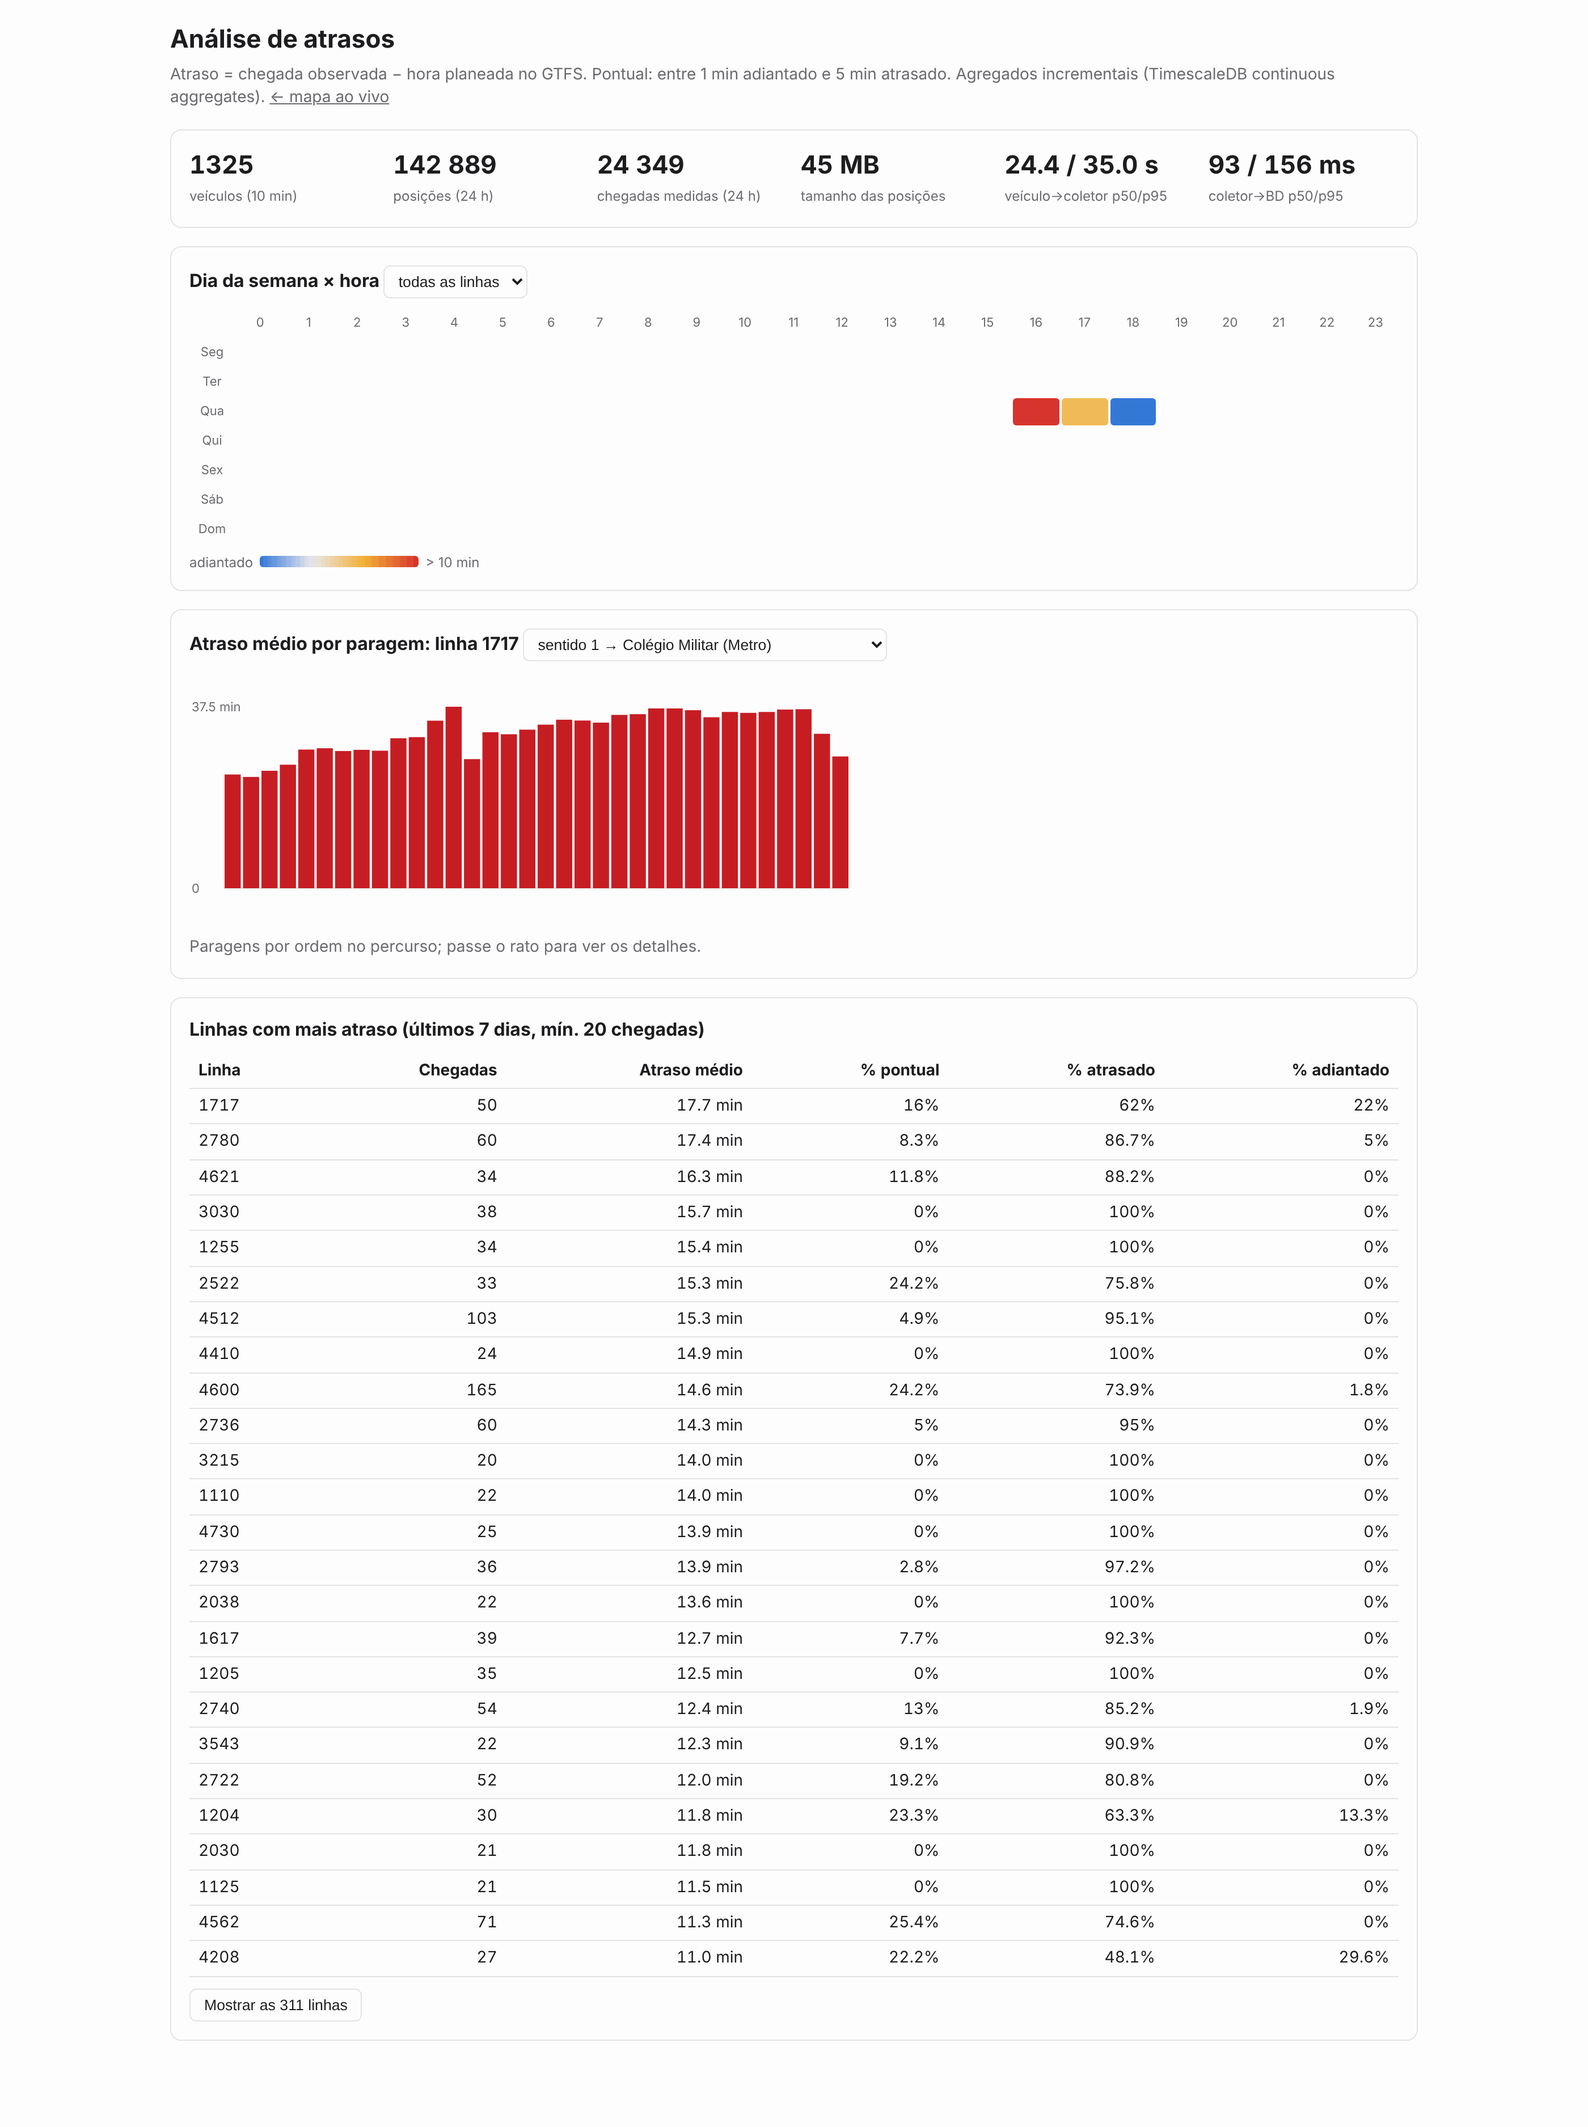
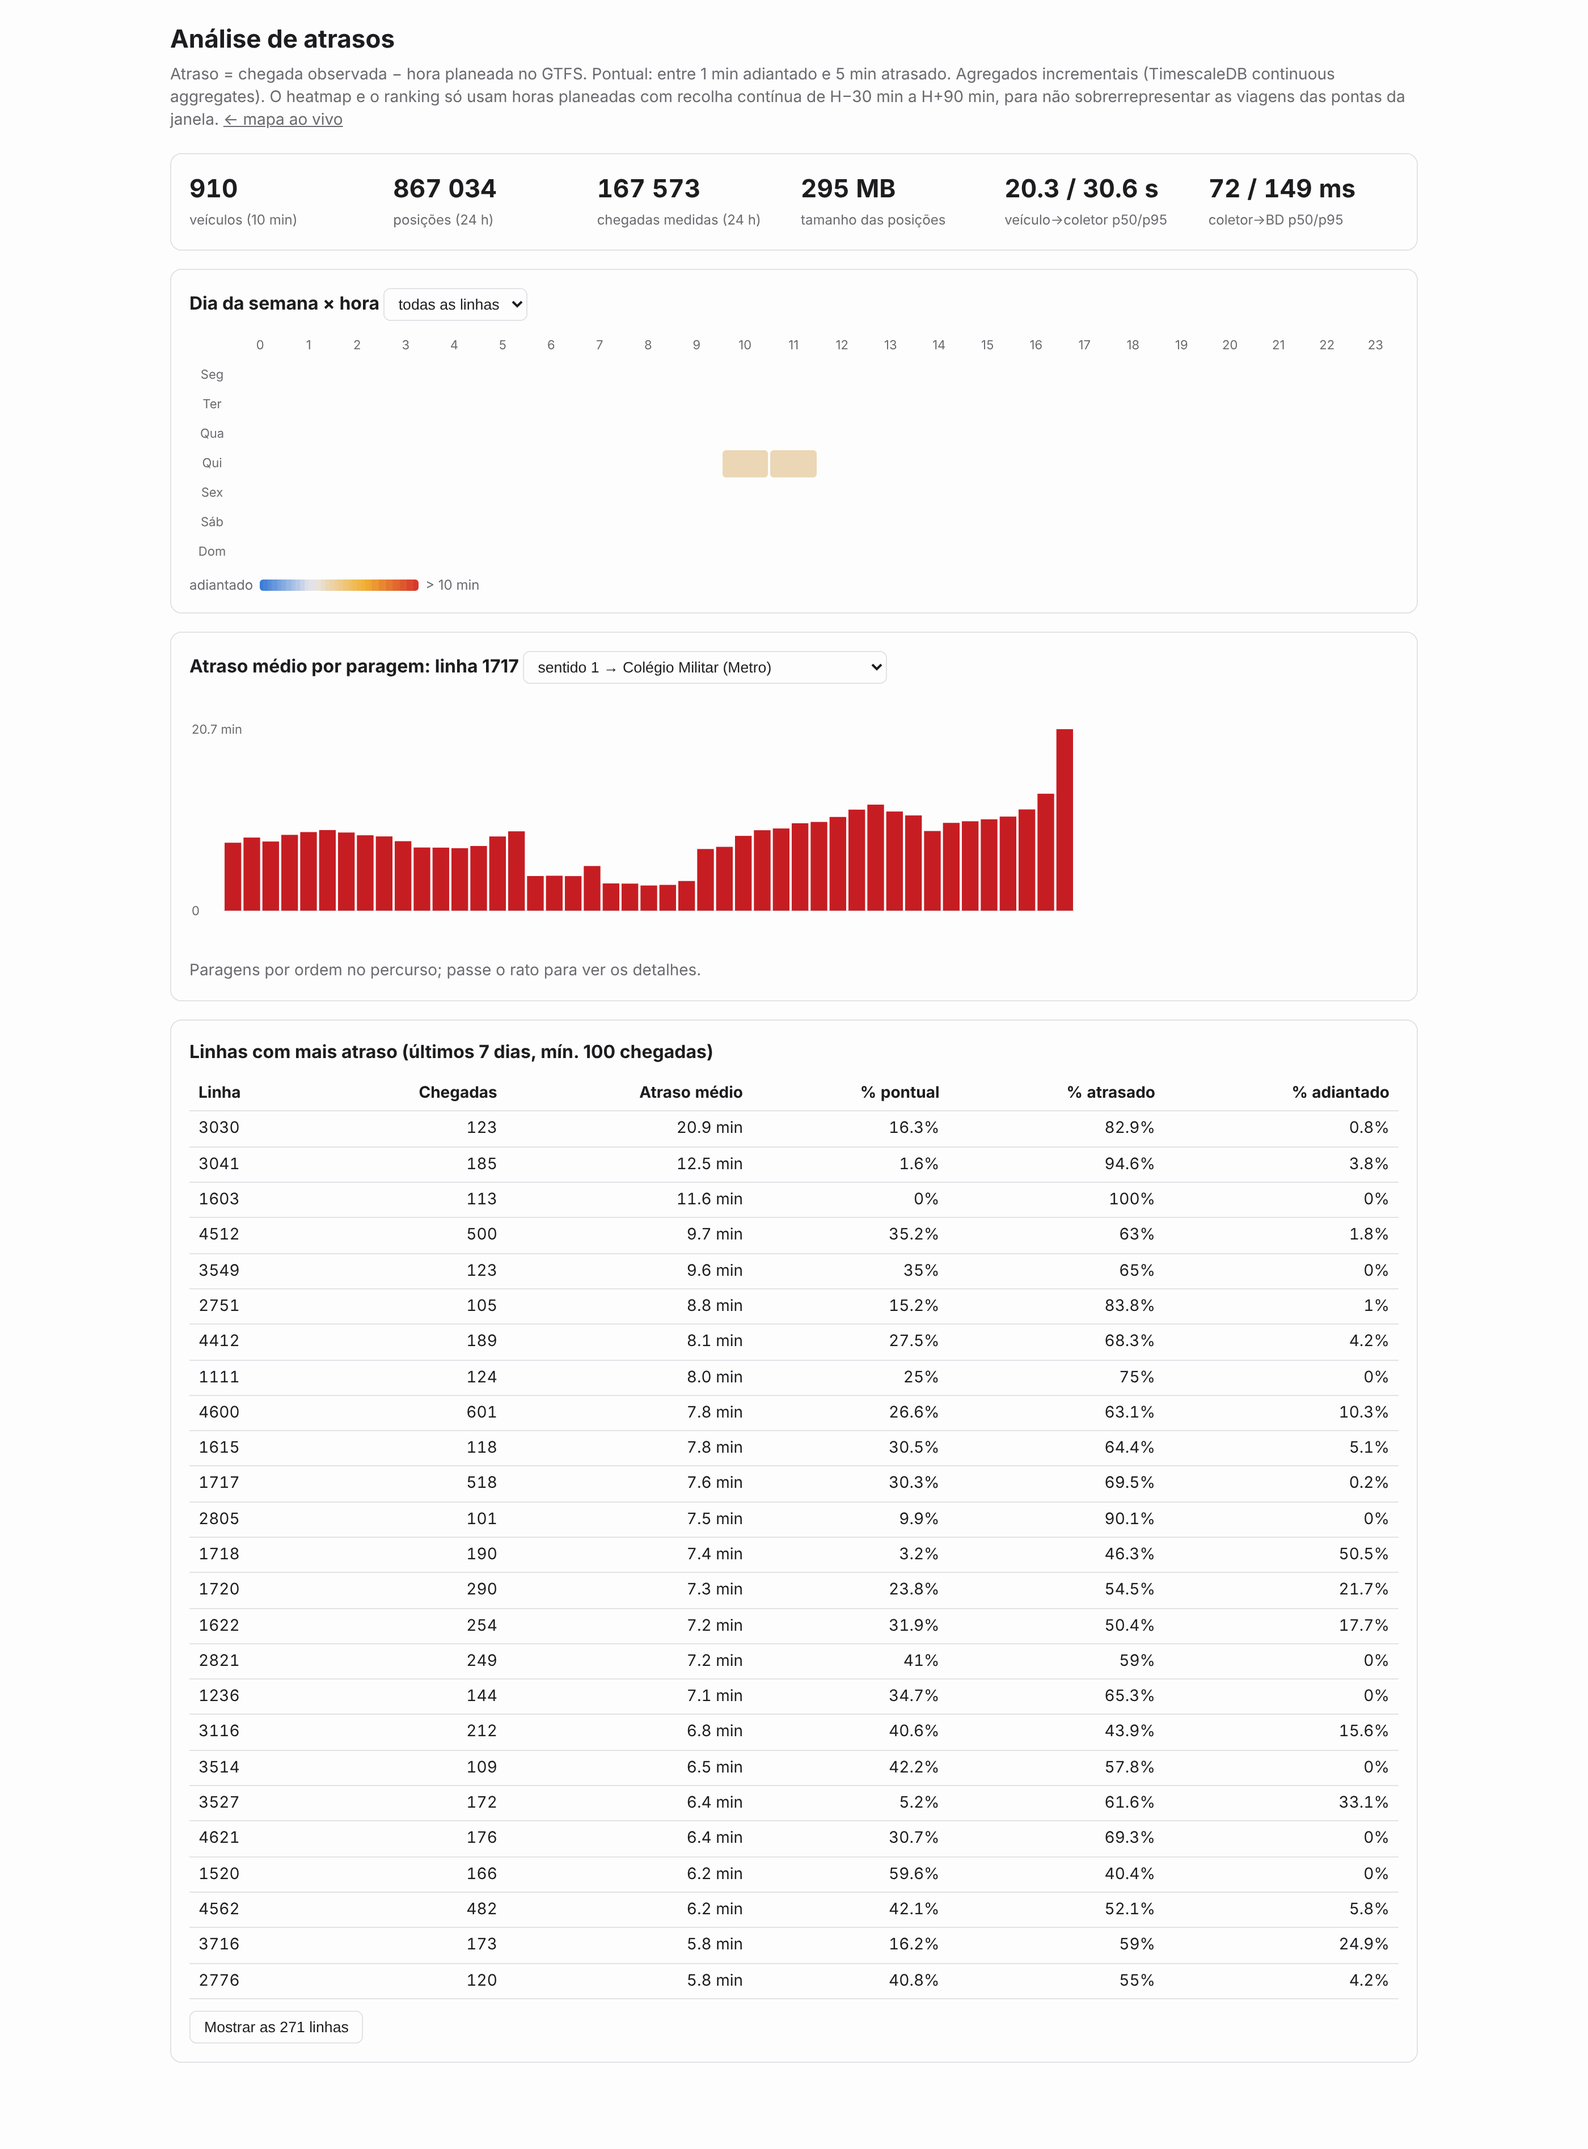
docs: README com 4,2 h de recolha real; filtro de cobertura na web
- recolha em duas janelas (qua 17:16–17:56; qui 09:21–12:50), 0 reinícios
- README: volume por hora, compressão 10,6×, latência por etapa
  (pipeline p50 0,77 s / p95 1,75 s; total p50 20,8 s), atrasos por hora
  planeada só com cobertura completa, ranking de linhas, métodos de deteção
- schema: continuous aggregate collection_minutes + vista covered_hours;
  o heatmap e o ranking da web só usam horas com recolha de H−30 a H+90 min
  (sem isto, as pontas da janela mostravam só as viagens extremas)
- ranking com mínimo de 100 chegadas; capturas de ecrã novas

Claude-Session: https://claude.ai/code/session_011GkMcB5T3sH439aZA2QX8j

diff --git a/src/cmlive/web/static/analytics.html b/src/cmlive/web/static/analytics.html
@@ -31,7 +31,8 @@
 <main>
   <h1>Análise de atrasos</h1>
   <p class="sub">Atraso = chegada observada − hora planeada no GTFS. Pontual: entre 1 min adiantado e 5 min atrasado.
-    Agregados incrementais (TimescaleDB continuous aggregates). <a href="/">← mapa ao vivo</a></p>
+    Agregados incrementais (TimescaleDB continuous aggregates). O heatmap e o ranking só usam horas
+    planeadas com recolha contínua de H−30 min a H+90 min, para não sobrerrepresentar as viagens das pontas da janela. <a href="/">← mapa ao vivo</a></p>
 
   <div class="card kpis" id="kpis"></div>
 
@@ -47,7 +48,7 @@
   </div>
 
   <div class="card">
-    <h2>Linhas com mais atraso (últimos 7 dias, mín. 20 chegadas)</h2>
+    <h2>Linhas com mais atraso (últimos 7 dias, mín. 100 chegadas)</h2>
     <table><thead><tr><th>Linha</th><th>Chegadas</th><th>Atraso médio</th><th>% pontual</th><th>% atrasado</th><th>% adiantado</th></tr></thead>
     <tbody id="lines"></tbody></table>
     <button id="more" hidden style="margin-top:10px;padding:6px 12px;border-radius:6px;border:1px solid var(--border);background:var(--card);color:inherit;cursor:pointer"></button>

diff --git a/src/cmlive/web/app.py b/src/cmlive/web/app.py
@@ -236,14 +236,14 @@ def create_app(settings: Settings | None = None, with_background: bool = True) -
     tz = settings.timezone
 
     @app.get("/api/analytics/lines")
-    async def by_line(days: int = Query(7, ge=1, le=3650), min_n: int = 20):
+    async def by_line(days: int = Query(7, ge=1, le=3650), min_n: int = 100):
         rows = await _query(
             """SELECT line_id, sum(n)::int AS n,
                       round((sum(avg_delay_s * n) / sum(n))::numeric, 1)::float AS avg_delay_s,
                       round(100.0 * sum(n_on_time) / sum(n), 1)::float AS pct_on_time,
                       round(100.0 * sum(n_late) / sum(n), 1)::float AS pct_late,
                       round(100.0 * sum(n_early) / sum(n), 1)::float AS pct_early
-               FROM delay_hourly
+               FROM delay_hourly JOIN covered_hours USING (bucket)
                WHERE bucket > now() - make_interval(days => %s)
                GROUP BY line_id HAVING sum(n) >= %s
                ORDER BY avg_delay_s DESC""",
@@ -259,7 +259,7 @@ def create_app(settings: Settings | None = None, with_background: bool = True) -
                        sum(n)::int AS n,
                        round((sum(avg_delay_s * n) / sum(n))::numeric, 1)::float AS avg_delay_s,
                        round(100.0 * sum(n_on_time) / sum(n), 1)::float AS pct_on_time
-                FROM delay_hourly
+                FROM delay_hourly JOIN covered_hours USING (bucket)
                 WHERE bucket > now() - make_interval(days => %(days)s)
                   AND (%(line)s::text IS NULL OR line_id = %(line)s)
                 GROUP BY 1, 2 ORDER BY 1, 2""",

diff --git a/tests/integration/test_pipeline.py b/tests/integration/test_pipeline.py
@@ -219,7 +219,9 @@ async def test_end_to_end_delay_dedup_reorder_idempotent():
         assert r.status_code == 200
         heat = client.get("/api/analytics/heatmap", params={"line_id": "TEST", "days": 3650})
         assert heat.status_code == 200
-        assert sum(c["n"] for c in heat.json()) >= len(stops)
+        # Uma viagem isolada não tem recolha contínua de H−30 a H+90 min:
+        # o heatmap exclui-a (proteção contra o enviesamento de janela).
+        assert sum(c["n"] for c in heat.json()) == 0
         assert client.get("/api/stats").status_code == 200
 
     _cleanup(trip_id)

diff --git a/README.md b/README.md
@@ -88,66 +88,110 @@ publica o `observed_arrival` da própria Carris.
 
 ## Volume de dados e latência
 
-Medido contra a **API real** a 2026-11-04, entre as 17:15 e as 17:55 de Lisboa
-(hora de ponta da tarde), com o GTFS em vigor nesse dia (`feed_version 20261104-0400-05`).
-São 40 minutos de dados: os volumes são de ponta, não médias diárias.
+Medido contra a **API real** em duas janelas de recolha, com o GTFS em vigor
+(`feed_version 20261104-0400-05`):
+
+| Janela | Período (Lisboa) | Duração |
+|---|---|---|
+| 1 | qua 04/11, 17:16–17:56 (ponta da tarde) | 0,7 h |
+| 2 | qui 05/11, 09:21–12:50 (fim da ponta da manhã → vazio) | 3,5 h |
+
+As tabelas de atrasos abaixo são geradas por `python -m cmlive report` a partir da BD.
 
 ### Volume
 
 | Métrica | Valor medido |
 |---|---|
-| Veículos por resposta de `/v2/vehicles` | ~1 120–1 140 (pico de 1 398 distintos em 33 min) |
-| Polls bem-sucedidos | 397/397 (intervalo de 5 s, sem falhas) |
-| Registos repetidos descartados pelo coletor | **70%** (331 977 repetidos vs. 143 651 novos) |
-| Eventos novos após dedup | **68,6 /s** na ponta (≈ 5,9 M/dia, se fosse sempre ponta) |
-| Intervalo entre posições do mesmo veículo | p50 15 s · p90 29 s |
-| Posições rejeitadas | coordenadas `(0, 0)` vindas de 8 veículos |
-| Espaço em `vehicle_positions` | 46 MB por 144 k linhas → **7,9 MB comprimido** (5,9×, ~56 B/posição) |
-| Chegadas medidas | 24 520 em ~35 min; **97,4%** com horário GTFS correspondente |
-| GTFS em vigor | 306 978 viagens · 9 955 081 `stop_times` · 12 797 paragens; carregado em **69–80 s** (com download) |
+| Veículos distintos | 1 563 no total; 1 059–1 414 por hora |
+| Eventos novos após dedup | 69,6 /s (qua 17 h) · 65,3 /s (qui 9 h) · 45,7–53,2 /s (qui 10–12 h) |
+| Registos repetidos descartados pelo coletor | **67%** (1,39 M repetidos vs. 675 k novos, só na janela 2) |
+| Polls na janela 2 | 2 500/2 500 bem-sucedidos (intervalo de 5 s), 0 reinícios em 3,5 h |
+| Intervalo entre posições do mesmo veículo | p50 15 s · p90 23 s (janela 2) |
+| Posições rejeitadas | 4 980 com coordenadas `(0, 0)` (0,7%) |
+| Espaço em `vehicle_positions` | 3,5 h = 675 k posições: 233 MB → **22 MB comprimido** (10,6×, ~35 B/posição) |
+| Totais | 846 k posições · 163 k chegadas · 6 891 viagens · 593 linhas |
+| Chegadas com horário GTFS correspondente | **99,9%** das chegadas detetadas (100 sem correspondência em 134 k na janela 2) |
+| GTFS em vigor | 306 978 viagens · 9 955 081 `stop_times` · 12 797 paragens; carregado em 69–80 s (com download) |
 
 ### Latência ponta a ponta
 
-Medida no browser (7 000 amostras, só *deltas* SSE, sem contar o snapshot inicial) e na BD:
+Medida na BD (675 k posições da janela 2) e no browser (8 010 amostras de *deltas* SSE, sem contar o snapshot inicial):
 
 | Etapa | p50 | p95 | Onde |
 |---|---|---|---|
-| veículo → coletor (idade ao chegar à API) | 24,5 s | 34,9 s | fonte: hub GO + cache de 5 s da API |
-| coletor → BD (Redpanda + ingestor) | 90 ms | 149 ms | esta pipeline |
-| log (Redpanda) → browser | 0,54 s | 1,30 s | esta pipeline (inclui o *tick* SSE de 1 s) |
-| coletor → browser | **0,62 s** | **1,30 s** | esta pipeline |
-| **veículo → browser** | **25,5 s** | **41,9 s** | total |
+| veículo → coletor (idade ao chegar à API) | 20,6 s | 29,9 s | fonte: hub GO + cache de 5 s da API |
+| coletor → BD (Redpanda + ingestor) | 71 ms | 129 ms | esta pipeline (p99 170 ms) |
+| log (Redpanda) → browser | 0,75 s | 1,68 s | esta pipeline (inclui o *tick* SSE de 1 s) |
+| coletor → browser | **0,77 s** | **1,75 s** | esta pipeline |
+| **veículo → browser** | **20,8 s** | **29,5 s** | total |
+| chegada observada → `stop_arrivals` | 46 s | 54 s | idade na fonte + janela de reordenação (20 s) + ponto médio entre observações |
 
 ```
-ts (veículo) ──24,5 s──▶ collected_at ──~0,1 s──▶ Redpanda ──~0,5 s──▶ browser
- └──────── fonte (fora do nosso controlo) ───┘└──────────── esta pipeline: p50 0,62 s ──────────┘
+ts (veículo) ──20,6 s──▶ collected_at ──~0,07 s──▶ BD
+                                     └──~0,75 s──▶ browser
+ └──── fonte (fora do nosso controlo) ────┘└──── esta pipeline: p95 < 1,8 s ────┘
 ```
 
-Quase toda a latência está **a montante** da API: a pipeline acrescenta menos de 1,3 s
-no p95. O *tick* SSE de 1 s é a maior parte do que é nosso, e é uma escolha
-deliberada (agrupa ~70 atualizações/s numa mensagem por segundo).
+Quase toda a latência está **a montante** da API. Do que é nosso, a maior parte é o
+*tick* SSE de 1 s, uma escolha deliberada: agrupa ~50–70 atualizações/s numa mensagem
+por segundo.
 
-### O que os primeiros dados mostram (e os seus limites)
+### Atrasos
 
-- A linha **1717**, sentido Colégio Militar, circulava 20 a 37 min atrasada e o atraso
-  crescia ao longo do percurso, enquanto o sentido oposto ia quase a horas (captura abaixo).
-- Com só 40 min de dados, o *heatmap* por hora planeada é enviesado pela janela: na
-  hora planeada anterior só aparecem as viagens muito atrasadas, e na seguinte só as
-  adiantadas. O efeito desaparece com dias completos de recolha.
+**Só horas planeadas com cobertura completa.** Uma hora planeada H só entra se a recolha
+esteve ativa, sem falhas, de H − 30 min a H + 90 min. Nos dados recolhidos, p1 = −11 min e
+p99 = +24 min, e só 0,5% das chegadas ficam a mais de 30 min do horário, por isso essa
+janela apanha mais de 99,5% das chegadas. Sem este filtro, as pontas da recolha só
+apanham as viagens mais atrasadas (ou adiantadas). Com 3,5 h contínuas, há **duas
+horas** com cobertura completa:
+
+| Hora planeada | Chegadas | Média | p50 | p90 | % pontual (−1 a +5 min) |
+|---|---|---|---|---|---|
+| qui 05/11 10 h | 38 736 | 1,6 min | 1,0 min | 8,2 min | 51,8% |
+| qui 05/11 11 h | 33 425 | 1,5 min | 1,0 min | 7,5 min | 54,5% |
+
+**Linhas com mais atraso** (≥ 200 chegadas nessas horas):
+
+| Linha | Chegadas | Média | % pontual |
+|---|---|---|---|
+| 4512 | 500 | 9,7 min | 35,2% |
+| 4600 | 601 | 7,8 min | 26,6% |
+| 1717 | 518 | 7,6 min | 30,3% |
+| 1720 | 290 | 7,3 min | 23,8% |
+| 1622 | 254 | 7,2 min | 31,9% |
+
+**Linhas mais pontuais** (≥ 200 chegadas): 1229 (99,6% pontual), 1120 (92,9%), 1617 (88,4%), 2710 (87,7%), 1606 (87,4%).
+
+**Métodos de deteção** (163 k chegadas): `stopped` 35,6% · `passed` 33,6% · `geofence` 28,2% ·
+`departed` 2,6%. A incerteza média é de 8–9 s em todos os métodos, e as medianas de
+atraso são parecidas entre eles (1,0–1,7 min), o que sugere que nenhum método está
+enviesado de forma grosseira.
+
+### O que estes dados mostram (e os seus limites)
+
+- A linha **1717** aparece entre as mais atrasadas nas duas janelas. Na quarta à tarde,
+  o sentido Colégio Militar chegou a 37 min de atraso. Na quinta de manhã, o atraso
+  cresce ao longo do percurso até ~20 min no fim (captura abaixo).
+- Na chegada ao terminal há linhas com forte **adiantamento** na última paragem
+  (ex.: 4321): é típico de horários com folga no fim do percurso.
+- **4,2 horas não são um estudo.** Para comparar horas do dia e dias da semana são
+  precisos vários dias completos. O sistema já está preparado para isso; o *heatmap*
+  e o ranking da página web aplicam o mesmo filtro de cobertura.
 - **Validação oficial:** `cmlive validate` consultou `/v2/arrivals/by_stop` para as 50
   paragens com mais chegadas. A API não publicou **nenhum** `observed_arrival` (0 em
   2 205 registos; só estimativas para chegadas futuras), por isso a comparação com a
-  verdade oficial fica pendente de a CM voltar a publicar esse campo.
+  verdade oficial fica pendente.
 
 ## Capturas de ecrã
 
-Dados reais, 2026-11-04, ~17:50 (Lisboa).
+Dados reais, qui 05/11/2026, ~12:55 (Lisboa).
 
-**Mapa ao vivo:** 1 296 veículos, coloridos pelo último atraso medido (cinzento = sem chegada medida ainda).
+**Mapa ao vivo:** veículos coloridos pelo último atraso medido (cinzento = ainda sem chegada medida).
 
 ![Mapa ao vivo](docs/img/map.png)
 
-**Análise:** KPIs, *heatmap*, atraso por paragem (linha 1717, sentido 1) e ranking de linhas.
+**Análise:** KPIs, *heatmap* (só as horas com cobertura completa), atraso por paragem
+(linha 1717, sentido Colégio Militar) e ranking de linhas.
 
 ![Análise de atrasos](docs/img/analytics.png)
 
@@ -180,6 +224,7 @@ CMLIVE_RECORD_DIR=/data/recordings docker compose up -d collector  # grava as re
 uv run python -m cmlive replay data/recordings --speed 20           # volta a injetá-las no log
 uv run --extra analytics python -m cmlive export --days 7           # Parquet para DuckDB
 uv run python -m cmlive validate --stops 50                         # erro vs. observed_arrival oficial
+uv run python -m cmlive report                                      # tabelas do README a partir da BD
 ```
 
 ## Testes

diff --git a/docs/PLANO.md b/docs/PLANO.md
@@ -48,5 +48,6 @@ Cada fase termina com um commit (ou vários), com testes a passar.
 - [x] README com capturas de ecrã e números medidos
 
 ## Próximos passos
-- [ ] Recolha de vários dias completos (o *heatmap* e o ranking precisam de mais do que 40 min)
+- [x] Recolha de 4,2 h em duas janelas (ponta da tarde; manhã → vazio), com filtro de cobertura
+- [ ] Recolha de vários dias completos, para comparar horas do dia e dias da semana
 - [ ] Repetir `cmlive validate` quando a API voltar a publicar `observed_arrival`
